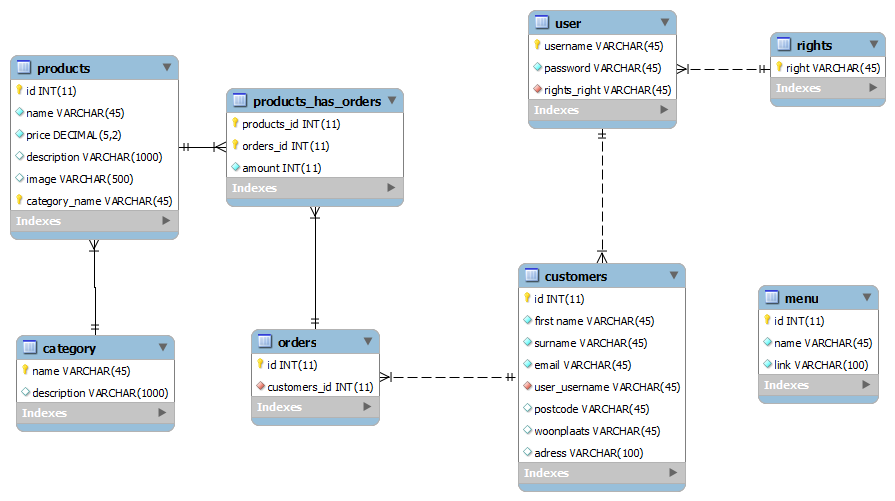
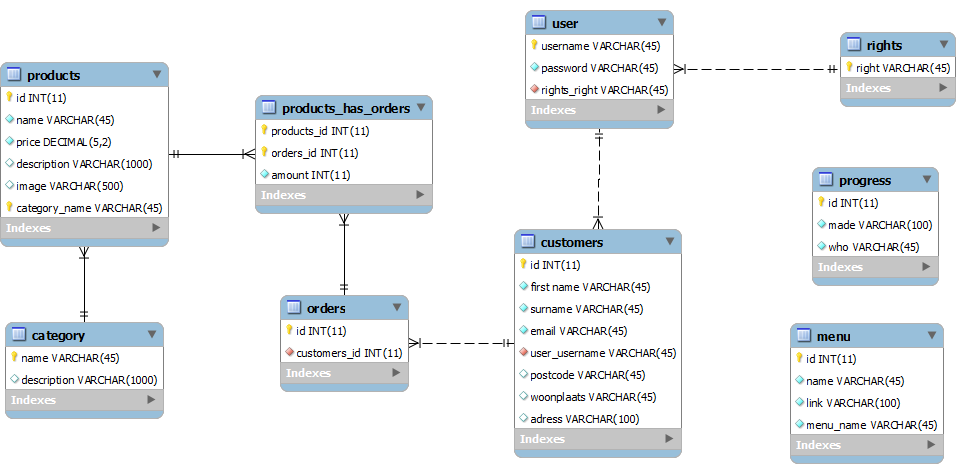
progress table update

diff --git a/progressscreen.php b/progressscreen.php
@@ -1,0 +1,29 @@
+<?php 
+include 'db/connection.php';
+$connection = openDB();
+include 'header.php'; 
+?>
+		<h2>Progress</h2>
+		<p>
+			<table>
+				<tr>
+					<th>
+						Made what
+					</th>
+					<th>
+						By who
+					</th>
+				</tr>
+				<?php
+					include 'repositories/progressrepository.php';
+					$progress = getAllProgress($connection);
+					foreach($progress as &$progressitem)
+					{
+						$made = $progressitem -> _get("made");
+						$who = $progressitem -> _get("who");
+						echo "<tr><td>$who</td><td>$made</td></tr>";
+					}
+				?>
+			</table>
+		</p>
+<?php include 'footer.php'; ?>

diff --git a/repositories/progressrepository.php b/repositories/progressrepository.php
@@ -1,0 +1,26 @@
+<?php
+	include 'model/progress.php';
+		
+	function getAllProgress($connection)
+	{
+		$query = "SELECT * FROM progress";
+		$result =$connection->query($query);
+		
+		$i = 0;
+		$progress = array();
+		
+		while ($row =$result->fetch_assoc())
+		{
+			$progress[$i] = new Progress();
+			foreach ($row as $key => $value) {
+				$progress[$i] -> _set($key, $value);
+			}
+			
+			$i++;
+		}
+		
+		$result->close();
+		
+		return $progress;
+	}
+?>

diff --git a/model/progress.php b/model/progress.php
@@ -1,0 +1,21 @@
+<?php
+	class Progress
+	{
+		private $id;
+		private $made;
+		private $who;
+
+		public function _get($property) {
+			if (property_exists($this, $property)) {
+				return $this->$property;
+			}
+		}
+		
+		public function _set($property, $value) {
+			if (property_exists($this, $property)) {
+				$this->$property = $value;
+			}
+			return $this;
+		}
+	}
+?>

diff --git a/repositories/menurepository.php b/repositories/menurepository.php
@@ -1,9 +1,9 @@
 <?php
 	include 'model/menu.php';
 		
-	function getAllMenus($connection)
+	function getAllUserMenus($connection)
 	{
-		$query = "SELECT * FROM menu";
+		$query = "SELECT * FROM menu WHERE menu_name= 'user'";
 		$result =$connection->query($query);
 		
 		$i = 0;

diff --git a/header.php b/header.php
@@ -29,7 +29,7 @@
 				<ul class="nav navbar-nav">
 					<?php
 						include 'repositories/menurepository.php';
-						$menu = getAllMenus($connection);
+						$menu = getAllUserMenus($connection);
 						
 						foreach($menu as &$menuitem)
 						{
